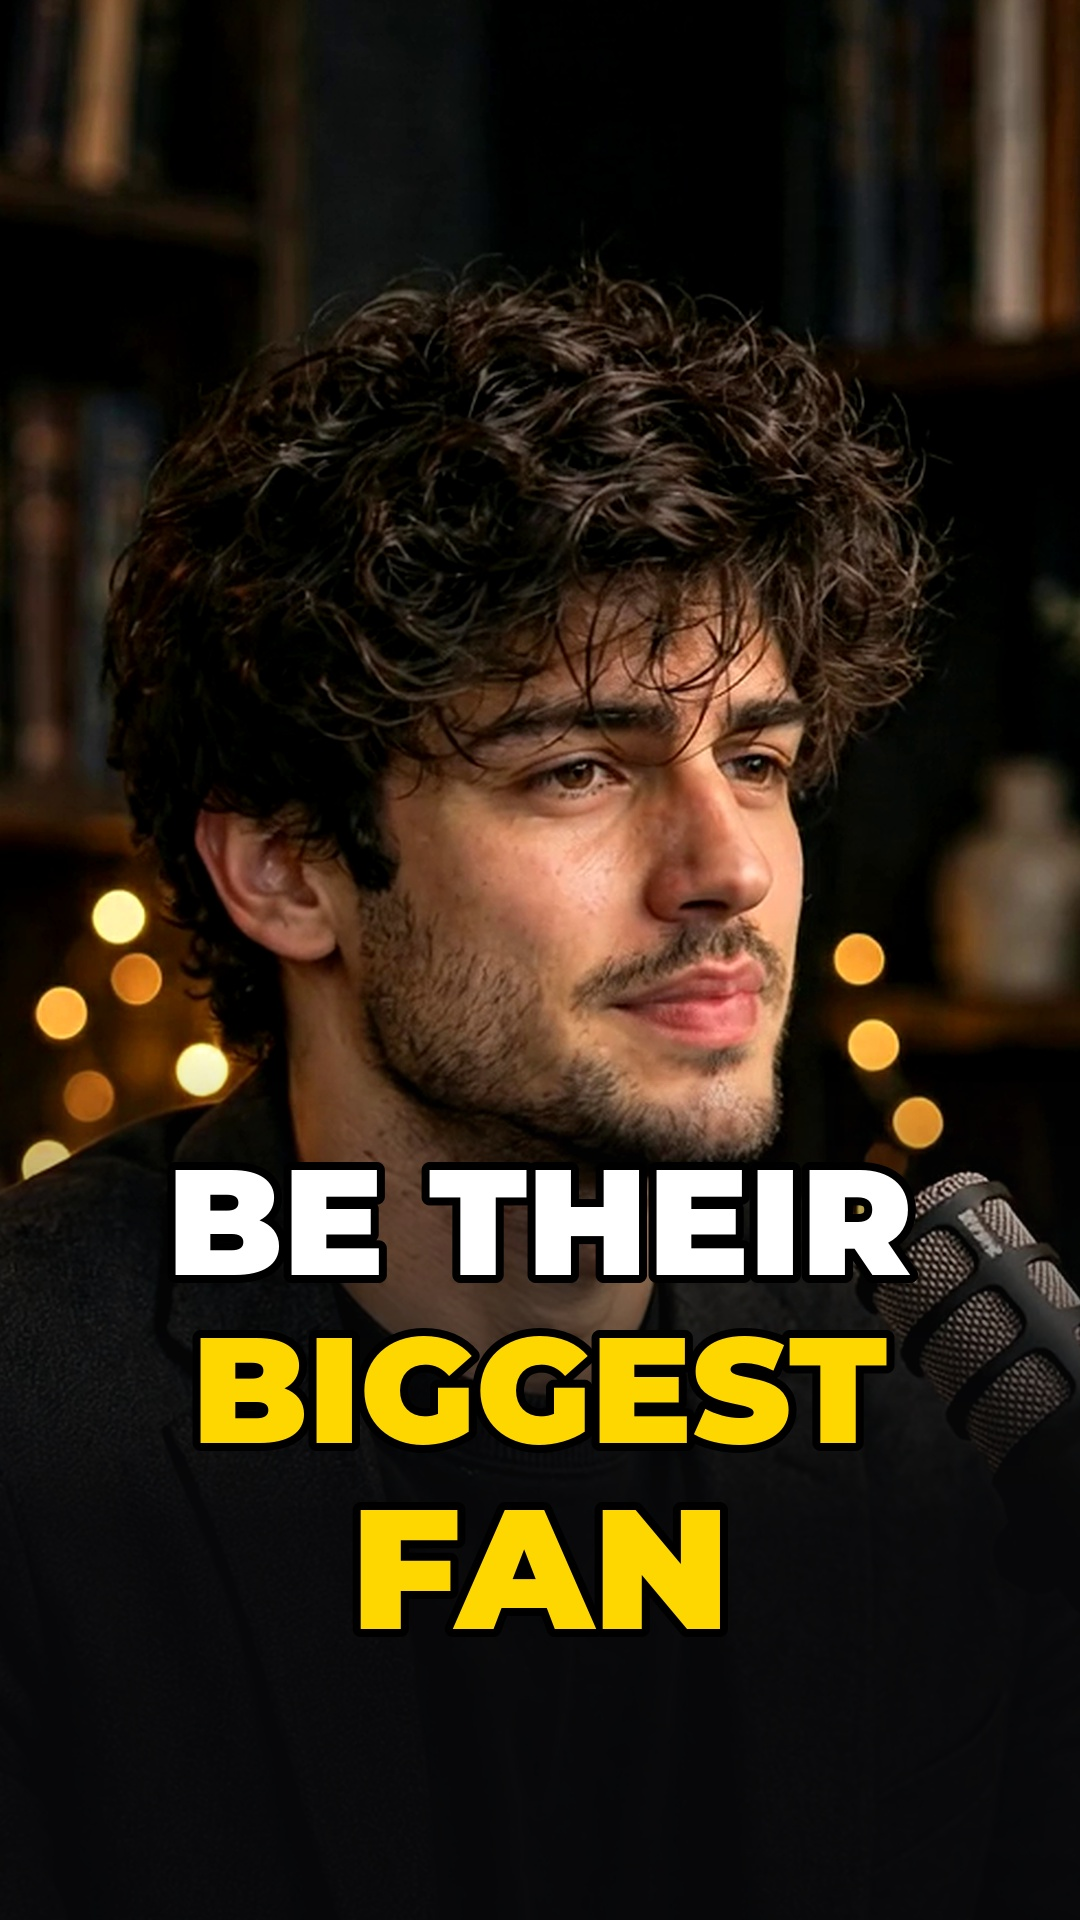
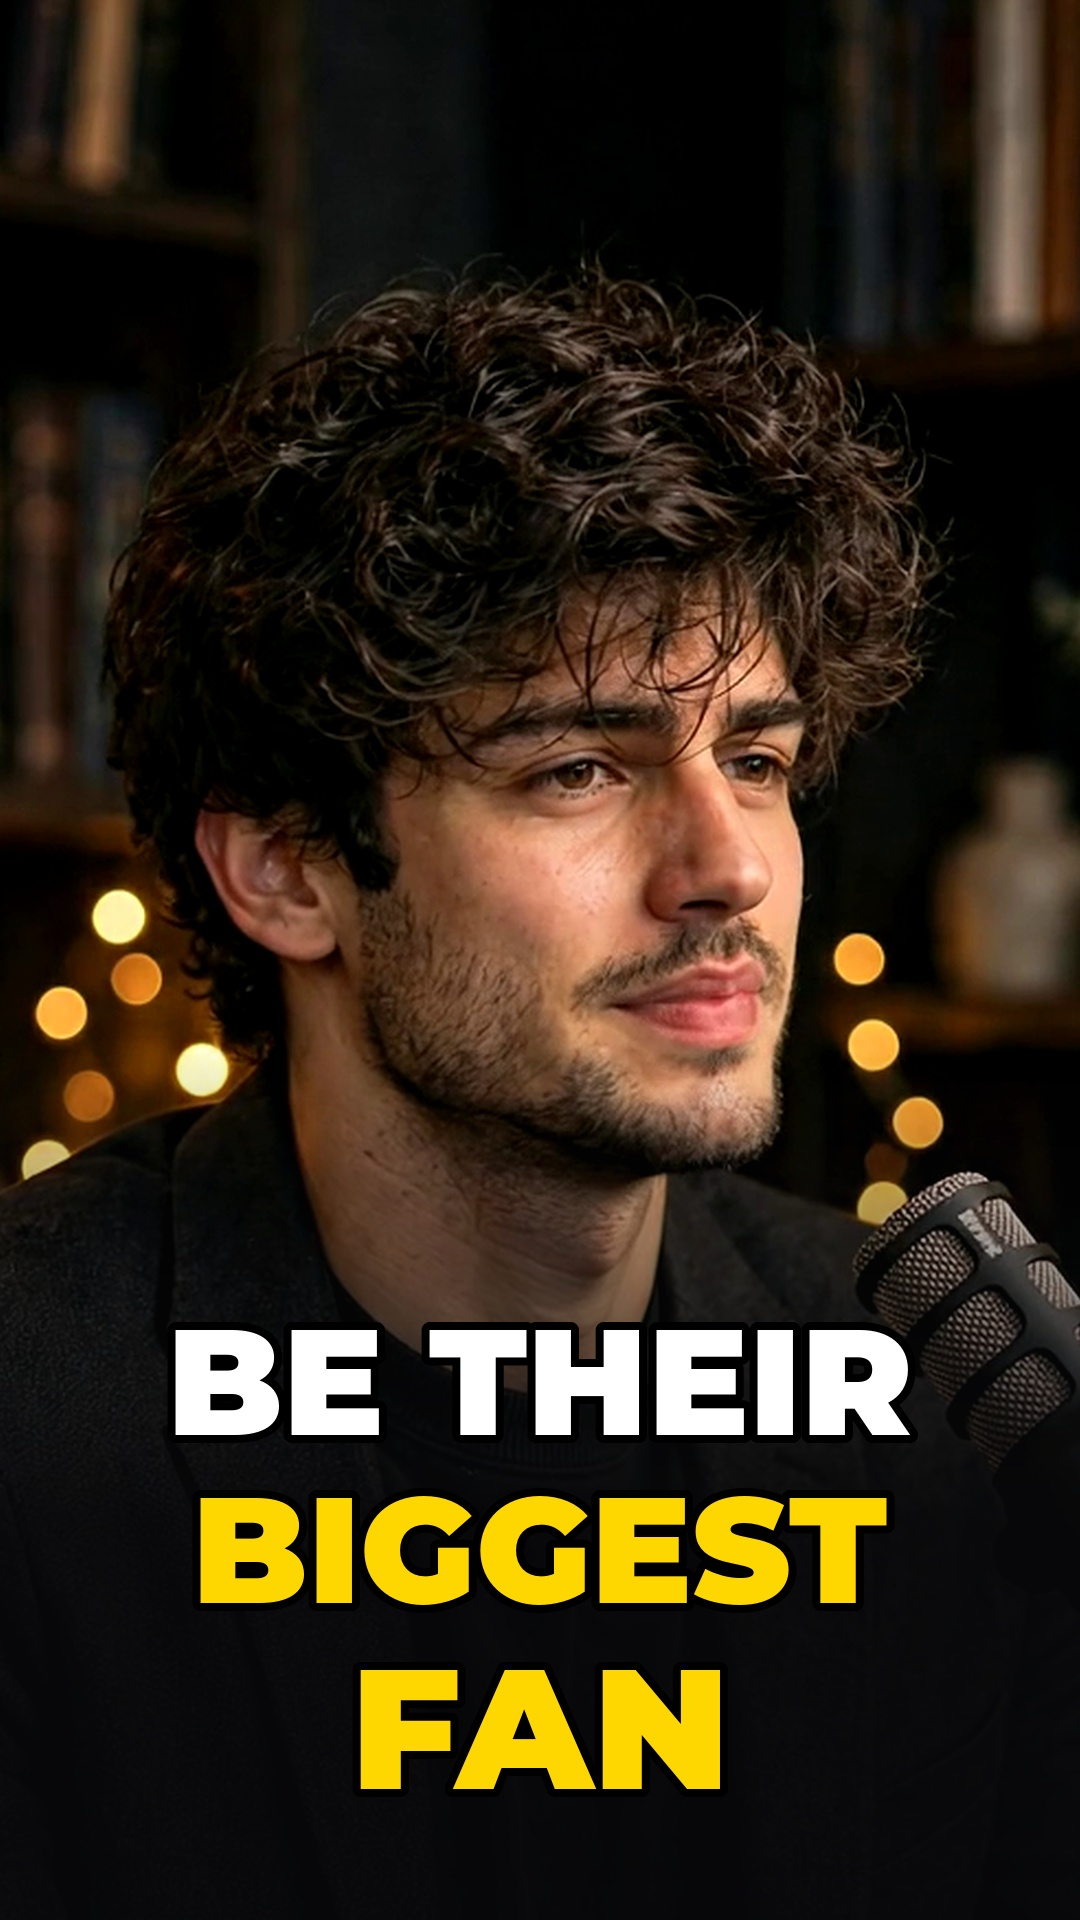
Thumbnails: move text below the face
Claude-Session: https://claude.ai/code/session_019s97xtRqvReF53hkhWnkFA

Changed region(s): [[0.1528, 0.5938, 0.8556, 0.9375]]

diff --git a/reels/thumbnails/cover.py b/reels/thumbnails/cover.py
@@ -14,7 +14,7 @@ def fit(draw, text, size, maxw):
         if draw.textlength(text, font=f) <= maxw: return f
         size -= 4
     return f
-def cover(src, t, crop, face, zoom, lines, out, ycenter=1400):
+def cover(src, t, crop, face, zoom, lines, out, ycenter=1560):
     tmp = out + ".raw.png"
     frame(src, t, crop, face, zoom, tmp)
     im = Image.open(tmp).convert("RGB")

diff --git a/reels/thumbnails/run.py b/reels/thumbnails/run.py
@@ -16,4 +16,5 @@ jobs = [
 ]
 for n, src, t, crop, face, lines in jobs:
     cover(src, t, crop, face, 1.1, lines, f"cov_{n}.jpg")
+cover(SC+"d29/b.mp4", 6.2, "720:962:0:40", (660, 880), 1.1, [("YOU HAD", False), ("THE", True), ("ANSWER", True)], "cov_spoke-first.jpg")
 print("done")
